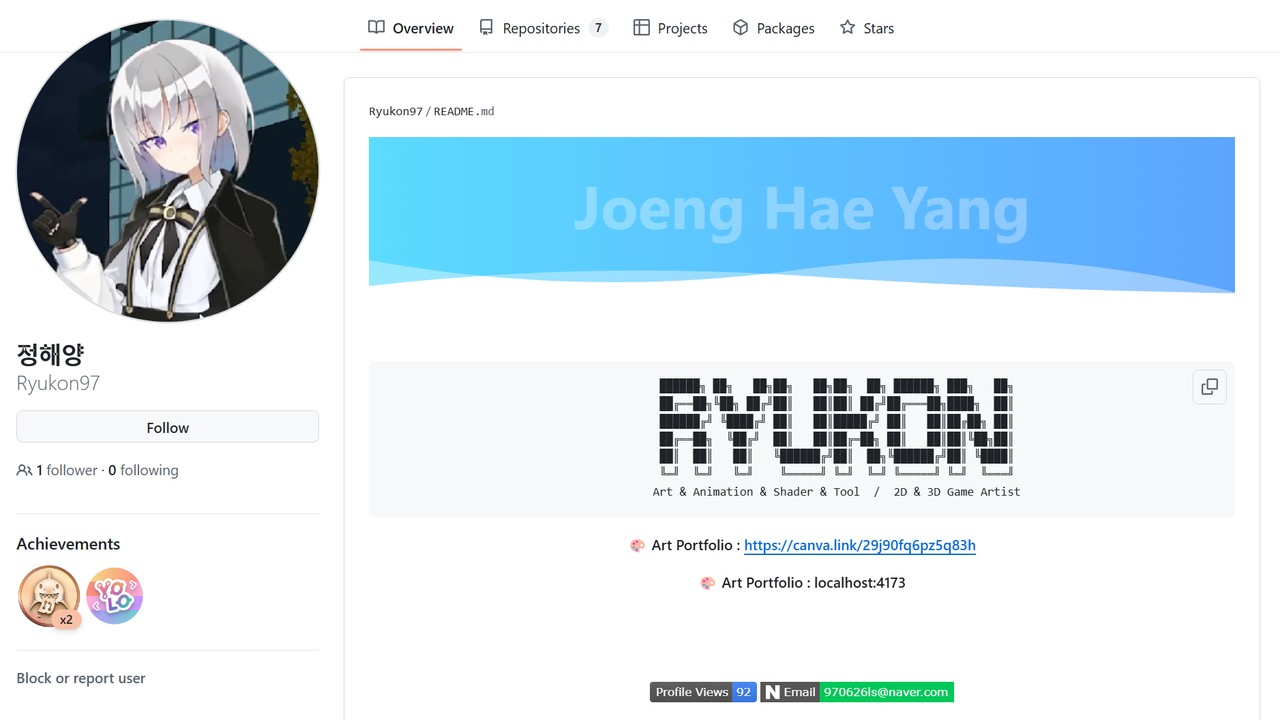
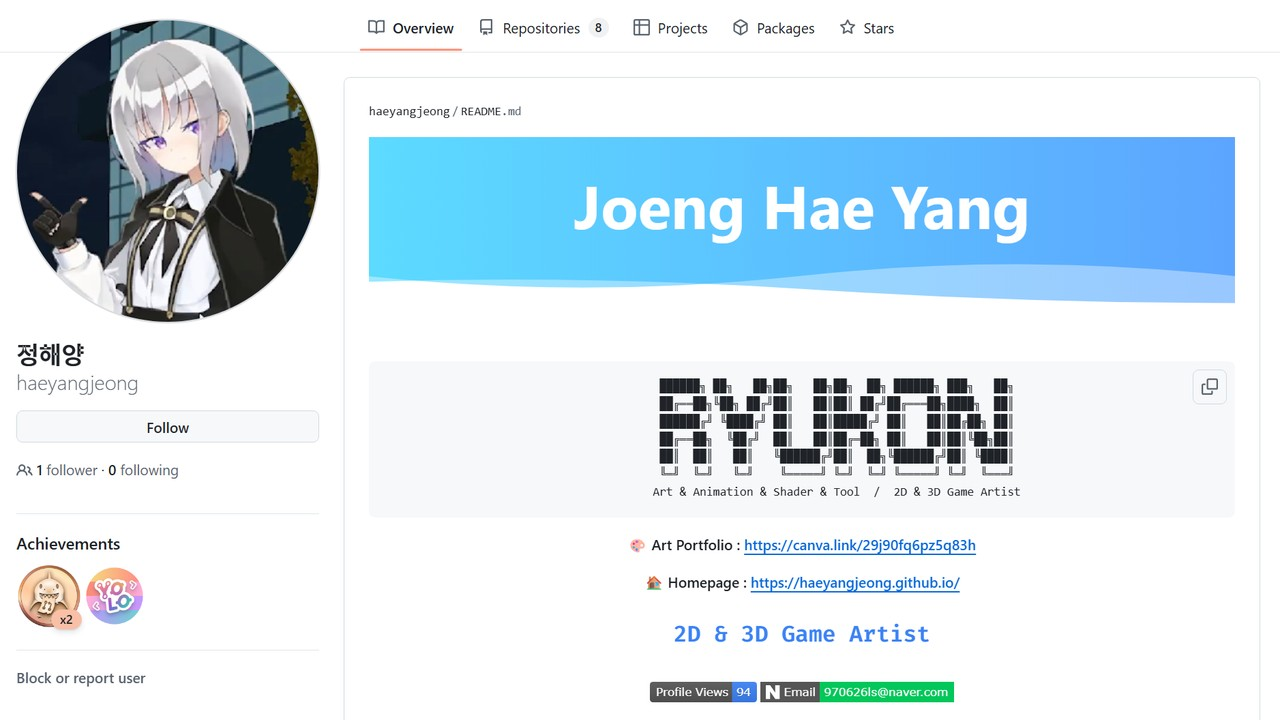
Links follow the new GitHub username haeyangjeong

diff --git a/data.js b/data.js
@@ -9,7 +9,7 @@ const PROJECTS = [
     slides: ["18"],
     links: [
       { label: "플레이 영상", url: "https://youtu.be/64PHtlV8q3M" },
-      { label: "GIT", url: "https://github.com/Ryukon97/Poltergeist" },
+      { label: "GIT", url: "https://github.com/haeyangjeong/Poltergeist" },
     ],
   },
   {
@@ -21,7 +21,7 @@ const PROJECTS = [
     slides: ["20", "21"],
     links: [
       { label: "플레이 영상", url: "https://youtu.be/3L-w9T-UCMY" },
-      { label: "GIT", url: "https://github.com/Ryukon97/Mirrors" },
+      { label: "GIT", url: "https://github.com/haeyangjeong/Mirrors" },
     ],
   },
   {
@@ -34,7 +34,7 @@ const PROJECTS = [
     links: [
       { label: "상점페이지", url: "https://store.steampowered.com/app/5086830/BACK_TOGETHER/" },
       { label: "플레이 영상", url: "https://youtu.be/64PHtlV8q3M" },
-      { label: "GIT", url: "https://github.com/Ryukon97/BackTogether" },
+      { label: "GIT", url: "https://github.com/haeyangjeong/BackTogether" },
     ],
   },
   {
@@ -47,7 +47,7 @@ const PROJECTS = [
     links: [
       { label: "상점페이지", url: "https://store.steampowered.com/app/5023800/Pixel_Chroma/?l=koreana" },
       { label: "공식 트레일러", url: "https://youtu.be/hEiYHdttB30" },
-      { label: "GIT", url: "https://github.com/Ryukon97/PixelChroma" },
+      { label: "GIT", url: "https://github.com/haeyangjeong/PixelChroma" },
     ],
   },
   {
@@ -68,7 +68,7 @@ const PROJECTS = [
     slides: ["24", "25", "26", "27", "28"],
     links: [
       { label: "플레이 영상", url: "https://youtu.be/64PHtlV8q3M" },
-      { label: "GIT", url: "https://github.com/Ryukon97/VRProject" },
+      { label: "GIT", url: "https://github.com/haeyangjeong/VRProject" },
     ],
   },
   {
@@ -80,7 +80,7 @@ const PROJECTS = [
     slides: ["29"],
     links: [
       { label: "플레이 영상", url: "https://youtu.be/01IqTF0F9SA" },
-      { label: "GIT", url: "https://github.com/Ryukon97/MasterTool" },
+      { label: "GIT", url: "https://github.com/haeyangjeong/MasterTool" },
     ],
   },
 ];

diff --git a/index.html b/index.html
@@ -24,7 +24,7 @@
   </nav>
   <div class="gnb-side">
     <a href="mailto:rezerorem8@gmail.com" aria-label="메일 보내기" title="메일 보내기"><svg viewBox="0 0 24 24"><path d="M3 6h18v12H3z M3 6l9 7 9-7"/></svg></a>
-    <a href="https://github.com/Ryukon97" target="_blank" rel="noopener" aria-label="GitHub" title="GitHub"><img src="assets/icons/github.png" alt=""></a>
+    <a href="https://github.com/haeyangjeong" target="_blank" rel="noopener" aria-label="GitHub" title="GitHub"><img src="assets/icons/github.png" alt=""></a>
   </div>
 </header>
 
@@ -130,7 +130,7 @@
     <div class="sec-title reveal"><h2 id="media-title">미디어</h2><p>Media</p><i></i></div>
     <div class="videos reveal" id="videos"></div>
     <div class="assets reveal" id="assets"></div>
-    <div class="more reveal"><i></i><a class="btn is-white" href="https://github.com/Ryukon97" target="_blank" rel="noopener"><span>GitHub 전체보기</span></a></div>
+    <div class="more reveal"><i></i><a class="btn is-white" href="https://github.com/haeyangjeong" target="_blank" rel="noopener"><span>GitHub 전체보기</span></a></div>
   </section>
 </main>
 
@@ -155,8 +155,8 @@
   <button class="zoom-close" id="pv-close" aria-label="닫기"></button>
 </dialog>
 
-<script src="data.js?v=2"></script>
+<script src="data.js?v=3"></script>
 <script src="hero.js?v=1"></script>
-<script src="main.js?v=13"></script>
+<script src="main.js?v=14"></script>
 </body>
 </html>

diff --git a/main.js b/main.js
@@ -200,7 +200,7 @@ for (const p of PROJECTS) {
 const MEDIA_ASSETS = [
   ...PROJECTS.flatMap((p) => p.links.filter((l) => l.url.includes("steampowered")).map((l) => ({ kind: "Steam", icon: "steam", thumb: p.key, title: `${p.title} 상점페이지`, url: l.url }))),
   ...HOTSPOTS[31].map((s, i) => ({ kind: "YouTube", icon: "youtube", thumb: i ? "media-channel" : "media-ads", title: s.label, url: s.url })),
-  { kind: "GitHub", icon: "github", thumb: "media-github", title: "Ryukon97", url: "https://github.com/Ryukon97" },
+  { kind: "GitHub", icon: "github", thumb: "media-github", title: "haeyangjeong", url: "https://github.com/haeyangjeong" },
 ];
 for (const item of MEDIA_ASSETS) {
   const card = make("a", "asset");
